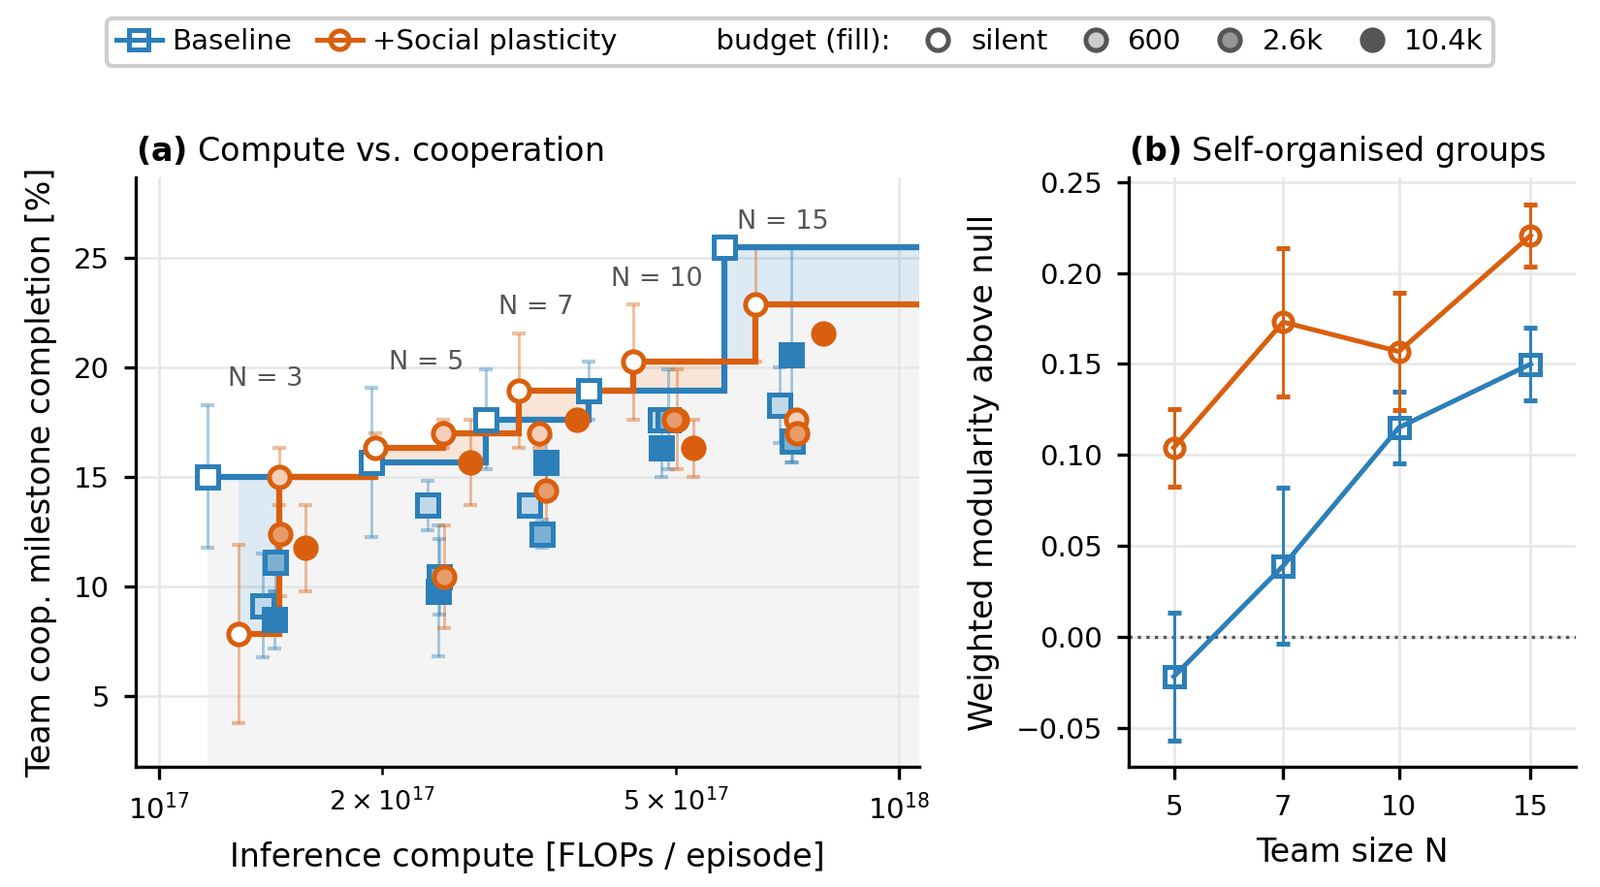
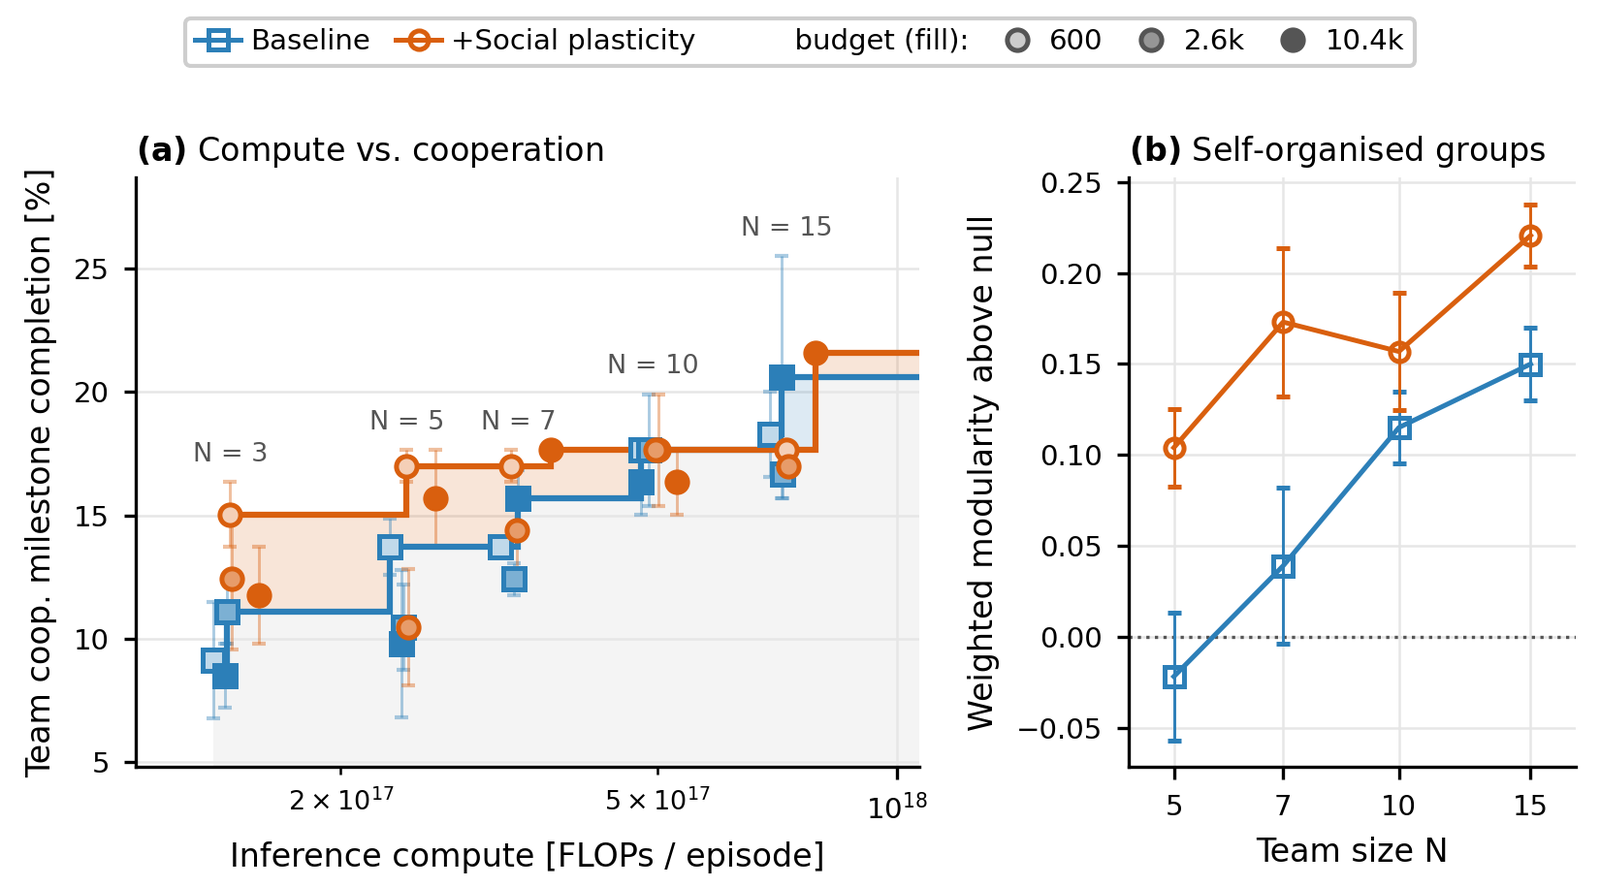
Follow the paper's scaling section; default to the talking-team figures

diff --git a/index.html b/index.html
@@ -16,7 +16,7 @@
 <link rel="preconnect" href="https://cdnjs.cloudflare.com">
 <link rel="stylesheet" href="https://fonts.googleapis.com/css2?family=Roboto:wght@100;300;400;500&display=swap">
 <link rel="stylesheet" href="https://cdnjs.cloudflare.com/ajax/libs/KaTeX/0.16.11/katex.min.css" integrity="sha384-nB0miv6/jRmo5UMMR1wu3Gz6NLsoTkbqJghGIsx//Rlm+ZU03BU6SQNC66uf4l5+" crossorigin="anonymous" referrerpolicy="no-referrer">
-<link rel="stylesheet" href="assets/css/style.css?v=20261011b">
+<link rel="stylesheet" href="assets/css/style.css?v=20261012a">
 </head>
 <body>
 
@@ -353,8 +353,8 @@
 <section class="main alt" id="scaling">
   <header>
     <div class="container">
-      <h2>Test-time scaling: more agents, bounded talk</h2>
-      <p class="lede">New results. The same zero-shot Gemma-E4B agents, scaled at inference time from 3 to 15 per team, with each agent's messages capped at 600, 2,600 or 10,400 tokens per episode, or switched off (silent teams). Every agent gets the same prompt apart from its name, and nobody assigns roles or groups. A cell is three seeds of three episodes of up to 1,000 steps, with fewer seeds at N&nbsp;=&nbsp;15.</p>
+      <h2>Test-time scaling: self-organised structure as teams grow</h2>
+      <p class="lede">All agents receive the same prompt apart from their name, and every message is addressed to exactly one teammate. Yet as the team grows, structure appears in who talks to whom that nobody assigns. We scale zero-shot Gemma-E4B teams from 3 to 15 agents, with and without social plasticity, and give each agent 600, 2,600 or 10,400 tokens to spend on messages per episode.</p>
     </div>
   </header>
   <div class="content">
@@ -362,82 +362,94 @@
 
       <div class="findings">
         <div class="finding">
-          <span class="rq">Talking teams</span>
-          <span class="num">10 of 11 cells</span>
-          <p>When agents can talk, social plasticity completes more cooperative milestones than the baseline in 10 of the 11 budget × team-size cells that differ (4 tied; sign test p&nbsp;=&nbsp;0.012). Silent teams show no consistent difference (3 of 5).</p>
+          <span class="rq">Cooperation scales with team size</span>
+          <span class="num">9.6% → 18.5%</span>
+          <p>Team cooperative progress rises with team size under every communication budget. Averaged over the budgets, baseline MindForge agents go from 9.6% with 3 agents to 18.5% with 15, about 93% more.</p>
         </div>
         <div class="finding">
-          <span class="rq">Same cooperation, fewer agents</span>
-          <span class="num">N = 5 ≈ N = 7</span>
-          <p>Averaged over budgets, five agents with social plasticity reach 14.9%, which the baseline needs seven agents for. The gap narrows as teams grow: 18.0% against 17.6% at N&nbsp;=&nbsp;10, 19.8% against 20.3% at N&nbsp;=&nbsp;15.</p>
+          <span class="rq">Fewer agents, less compute</span>
+          <span class="num">10 of 10</span>
+          <p>Social plasticity reaches more cooperative milestones than the baseline in every team size and budget up to ten agents that is not tied (sign test p&nbsp;=&nbsp;0.002), with gains of up to 5.9 points. Five agents with it exceed seven baseline agents (14.4% vs 13.9%).</p>
         </div>
         <div class="finding">
-          <span class="rq">Self-organised groups</span>
-          <span class="num">0.22 vs 0.15</span>
-          <p>Message networks split into communities beyond what a degree-preserving random graph gives. The structure grows with team size and is stronger with social plasticity at every size (modularity above the null at N&nbsp;=&nbsp;15).</p>
+          <span class="rq">Scarce communication</span>
+          <span class="num">600 tokens</span>
+          <p>The gains are largest at the tightest budget: 9.2% → 15.0% with three agents, 13.7% → 17.0% with five and with seven. With 600 tokens, social-plasticity teams of up to ten agents beat baseline teams given a 17× larger budget (17.0% vs 9.8% with five agents).</p>
         </div>
         <div class="finding">
-          <span class="rq">A hub, not a leader</span>
+          <span class="rq">A hub and tight circles</span>
           <span class="num">9–11 partners</span>
-          <p>At N&nbsp;=&nbsp;15, agent 0 ends an episode with 9–11 distinct conversation partners, while the other agents average 2.5–2.9. It answers about one message in four within ten steps (others: one in two) and asks for direction itself.</p>
+          <p>At N&nbsp;=&nbsp;15 the focal teammate ends the episode with 9–11 distinct partners, the other agents with 2.5–2.9. Social-plasticity teams answer 6–14 points more of the messages they receive and split into tighter groups at every team size.</p>
         </div>
       </div>
-      <p class="note" style="margin: -1.2em auto 2.4em; text-align: center;">Team coop. milestone completion: share of the 17 cooperative milestones (Chambers 2–5) reached by at least one agent of the team, averaged over a run's episodes; mean ± SE over seeds. It counts the team, unlike the per-agent Coop. % in the RQ1 table, so the two are not comparable.</p>
+      <p class="note" style="margin: -1.2em auto 2.4em; text-align: center;">Team cooperative milestone completion: share of the 17 cooperative milestones (Chambers 2–5) reached by at least one agent of the team by the end of the episode, averaged over a run's episodes; mean ± SE over seeds. It counts the team, unlike the per-agent Coop. % in the RQ1 table, so the two are not comparable.</p>
 
-      <h3 style="font-weight: 300; font-size: 1.3em;">Compute against cooperation</h3>
-      <figure class="figure-block" style="margin-top: 1em;">
-        <div class="controls" style="margin-bottom: 1em;">
-          <div class="chips" role="group" aria-label="Budgets shown">
-            <span class="lbl">Budgets</span>
-            <button class="chip active" data-swap="#scaling-pareto" data-src="assets/figures/scaling_pareto.png">All, including silent</button>
-            <button class="chip" data-swap="#scaling-pareto" data-src="assets/figures/scaling_pareto_talking.png">Talking teams only</button>
-          </div>
+      <div class="controls">
+        <div class="chips" role="group" aria-label="Teams shown in the figures">
+          <span class="lbl">Teams</span>
+          <button class="chip active" data-swap="#scaling-pareto,#scaling-progress" data-src="assets/figures/scaling_pareto.png,assets/figures/scaling_progress.png">Talking (as in the paper)</button>
+          <button class="chip" data-swap="#scaling-pareto,#scaling-progress" data-src="assets/figures/scaling_pareto_silent.png,assets/figures/scaling_progress_silent.png">With silent teams</button>
         </div>
-        <span class="image fit framed"><img id="scaling-pareto" src="assets/figures/scaling_pareto.png" alt="(a) Inference compute per episode against team cooperative milestone completion for baseline and social-plasticity teams of 3 to 15 agents at four message budgets, with each arm's Pareto front. (b) Weighted modularity of the message network above a degree-preserving null against team size." loading="lazy"></span>
-        <figcaption><strong>(a) Compute vs. cooperation.</strong> One point per arm, team size and budget (fill: budget). Compute is 2 × 4.5·10<sup>9</sup> × (prompt + generated tokens), summed over every model call of every agent in an episode. Dashed steps are each arm's Pareto front; the shaded region is dominated by the joint front. Among talking teams, the social-plasticity front is higher over 70% of the compute range and the baseline's over 8%. With silent teams included the split is 52% against 21%, and silent teams make up seven of the eight cells on the joint front. <strong>(b) Self-organised groups.</strong> Weighted modularity of the message network above a degree-preserving null. Compute is measured from token logs for 17 of the 40 cells. The rest are estimated from the tokens per agent-episode of the same arm and budget.</figcaption>
-      </figure>
-
-      <div class="row" style="margin-top: 2.4em;">
-        <figure>
-          <span class="image fit framed"><img src="assets/figures/scaling_progress.png" alt="Team cooperative milestone completion over the episode for baseline and social plasticity, in a grid of four budgets by five team sizes." loading="lazy"></span>
-          <figcaption><strong>Completion over the episode</strong>, by budget (rows) and team size (columns); dotted lines mark the chamber boundaries. The clearest gap is at the tightest budget, 600 tokens, for three to seven agents, and it opens in Chambers 3 and 4. Silent teams of three are the one large reversal (15.0% against 7.8%).</figcaption>
-        </figure>
-        <figure>
-          <span class="image fit framed"><img src="assets/figures/scaling_endpoint.png" alt="Episode-end team cooperative milestone completion against team size, averaged over budgets and per budget, with log-linear trends." loading="lazy"></span>
-          <figcaption><strong>Episode-end completion against team size</strong>: (a) the mean over budgets with log-linear trends; (b) per budget. Completion rises with team size for both arms. N&nbsp;=&nbsp;20 (shaded) is partial, with at most two seeds per cell and some budgets missing.</figcaption>
-        </figure>
       </div>
-
-      <h3 style="font-weight: 300; font-size: 1.3em; margin-top: 2.2em;">Who works with whom at fifteen agents</h3>
-      <p class="lede" style="margin-left: 0;">Every message is addressed to exactly one teammate, so the logs record who talks to whom. Without assigned roles, a hub forms around agent 0 and the rest of the team splits into small side groups. The agents differ only in their names.</p>
-      <figure class="figure-block" style="margin-top: 1.2em;">
-        <span class="image fit framed"><img src="assets/figures/team_formation_n15.png" alt="Whole-episode interaction networks of a fifteen-agent baseline team and a social-plasticity team, both centred on agent 0, and the learned bonds of the social-plasticity team." loading="lazy"></span>
-        <figcaption><strong>Whole-episode interaction networks at N&nbsp;=&nbsp;15</strong> (2,600-token budget), one episode per arm: the one closest to its cell's median Chamber 2 structure. Node size grows with distinct partners; agent 0 and its links are black. (c) The learned bonds of the same social-plasticity episode. Bonds partly follow the messages (Spearman ρ between Chamber 2 messages and bonds: +0.53 at N&nbsp;=&nbsp;3, +0.27 at N&nbsp;=&nbsp;15). They stay weak (mean 0.10–0.13 against a starting value of 0.1), and agent 0 holds ordinary ones.</figcaption>
+      <figure class="figure-block" style="margin-top: 0;">
+        <span class="image fit framed"><img id="scaling-pareto" src="assets/figures/scaling_pareto.png" alt="(a) Inference compute per episode against team cooperative milestone completion for baseline and social-plasticity teams of 3 to 15 agents at three message budgets, with each arm's Pareto front. (b) Weighted modularity of the Chamber 2 message graph above a degree-preserving null against team size." loading="lazy"></span>
+        <figcaption><strong>(a) Inference compute against cooperation.</strong> Each point is one arm, team size and communication budget (marker fill), with team cooperative milestone completion at the end of the episode. Step lines are each arm's Pareto front; the orange region is where the social-plasticity front exceeds the baseline front. Compute is 2 × 4.5·10<sup>9</sup> × (prompt + generated tokens) per episode. It is measured from token logs for 12 of the 30 cells (17 of 40 with silent teams) and estimated for the rest from the tokens per agent-episode of the same arm and budget. <strong>(b) Self-organised groups.</strong> Weighted Louvain modularity of the Chamber 2 message graph minus that of degree-preserving rewired versions of the same graph; 0 means no more grouping than each agent's number of partners implies. The second view adds silent teams (messaging switched off), which the paper does not report.</figcaption>
       </figure>
 
-      <div class="row" style="margin-top: 2.4em;">
+      <figure class="figure-block" style="max-width: 920px; margin-left: auto; margin-right: auto;">
+        <span class="image fit framed"><img id="scaling-progress" src="assets/figures/scaling_progress.png" alt="Team cooperative milestone completion over the episode for baseline and social plasticity, in a grid of budgets by five team sizes." loading="lazy"></span>
+        <figcaption><strong>Cooperative progress over the episode as teams grow.</strong> Team cooperative milestone completion over environment steps for each team size, with one row per budget: (a) 10,400, (b) 2,600 and (c) 600 tokens per agent per episode; the second view adds silent teams as row (d). Shading is ±1 SE over seeds, and dotted lines mark the chamber transitions.</figcaption>
+      </figure>
+
+      <h3 style="font-weight: 300; font-size: 1.3em; margin-top: 2.2em;">New forms of coordination as the team grows</h3>
+      <p class="lede" style="margin-left: 0;">Messages are addressed, so the logs are a complete record of the team's conversation. The network analyses use the Chamber 2 message graph.</p>
+      <div class="row" style="margin-top: 1.2em;">
         <figure>
           <span class="image fit framed"><img src="assets/figures/collab_chambers.png" alt="Message networks in Chambers 2, 3 and 4 for teams of 3, 5, 7, 10, 15 and 20 agents with social plasticity, with message communities shaded and milestones completed together in green." loading="lazy"></span>
-          <figcaption><strong>The network chamber by chamber as the team grows</strong> (social plasticity, 2,600 tokens). Grey areas are message communities. Green links join two agents credited for the same milestone event, almost always a Chamber 3 switch press and the door it opens.</figcaption>
+          <figcaption><strong>Who talks to whom, by team size and chamber</strong> (social plasticity, 2,600-token budget; one typical episode per team size). Edge width follows the messages exchanged; solid edges carry messages both ways, dashed edges one way. Grey bands are Louvain communities of the message graph, and green edges with a diamond join agents credited for the same milestone. Agent 0 is filled, and agents silent in that chamber sit underneath. In Chamber 3 the ring is set by the task: agent <span class="m">i</span>'s switch opens agent <span class="m">i</span>+1's door.</figcaption>
         </figure>
-        <div>
-          <figure>
-            <span class="image fit framed"><img src="assets/figures/team_formation_n15_time.png" alt="Distinct partners over the episode for agent 0 and the mean of the other agents, baseline and social plasticity, fifteen agents." loading="lazy"></span>
-            <figcaption><strong>Distinct partners over the two episodes above</strong>: agent 0 (solid) against the mean of the other agents (dashed). × marks a Chamber 5 team wipe; the shaded band is Chamber 2.</figcaption>
-          </figure>
-          <div class="cols" style="grid-template-columns: 1fr; gap: 18px;">
-            <div>
-              <h3>Circles stay small</h3>
-              <p>At every team size an agent keeps about 1.3 conversation partners in Chamber 2. Larger teams therefore split into more groups (one at N&nbsp;=&nbsp;3, three to four at N&nbsp;=&nbsp;15) rather than larger ones.</p>
-            </div>
-            <div>
-              <h3>Talk partners are not task partners</h3>
-              <p>Pairs that complete a milestone together are switch-ring neighbours, which the task fixes (93–100%). The share of them that had messaged each other in Chamber 2 falls from 67–69% at N&nbsp;=&nbsp;3 to 15–29% at N&nbsp;=&nbsp;15.</p>
-            </div>
-            <div>
-              <h3>Talk does not reach the task</h3>
-              <p>Silent teams break a Chamber 2 anvil in 13 of 81 episodes, messaging teams in 5 of 234. Agents press their Chamber 3 switch about as often without messages as with them (21.5% against 23.8%).</p>
-            </div>
+        <div class="cols" style="grid-template-columns: 1fr; gap: 18px; margin-top: 0; align-content: start;">
+          <div>
+            <h3>3 agents: direct requests</h3>
+            <p>All three agents talk to each other, and cooperation runs through requests to the teammate who can help. In the switch ring, an agent asked the teammate whose switch opens its door to press it, and the teammate pressed six steps later.</p>
+          </div>
+          <div>
+            <h3>5 agents: a focal teammate emerges</h3>
+            <p>About three in four agents open the episode by messaging agent 0, against one in four by chance. Complete request–act–acknowledge loops appear: an agent asked its neighbour to press, the neighbour pressed and reported it, and the freed agent thanked it and moved on.</p>
+          </div>
+          <div>
+            <h3>7 agents: side groups and ring-wide reasoning</h3>
+            <p>In 61% of episodes, two or three agents form a group beside the conversation around agent 0. Agents begin to reason about the ring beyond a single partner: one told its predecessor that it was pressing its switch to free its successor.</p>
+          </div>
+          <div>
+            <h3>10 agents: requests route through a hub</h3>
+            <p>Side groups form in 93% of episodes, and agents route requests through the focal teammate. An agent locked in its cell asked agent 0 to have a third agent press the switch that frees it.</p>
+          </div>
+          <div>
+            <h3>15 agents: many circles, one hub</h3>
+            <p>The team splits into about 3.5 groups around a single hub, and agents coordinate several teammates in one message, announcing a switch press meant to free two of them at once.</p>
+          </div>
+        </div>
+      </div>
+
+      <figure class="figure-block">
+        <span class="image fit framed"><img src="assets/figures/team_formation_n15.png" alt="Whole-episode interaction networks of a fifteen-agent baseline team and a social-plasticity team, both centred on agent 0, and the learned bonds of the social-plasticity team." loading="lazy"></span>
+        <figcaption><strong>A focal hub in a fifteen-agent team</strong> (2,600-token budget; one typical episode per arm). (a, b) Every interaction of the episode for the baseline and social plasticity: an edge joins two agents who exchanged at least one message, and agent 0's edges are dark. (c) The learned bonds <span class="m">W</span> of the social-plasticity team in (b), with width proportional to bond strength. Layouts are force-directed, so distance on the page is not distance in the world.</figcaption>
+      </figure>
+
+      <div class="row" style="margin-top: 2.4em; align-items: start;">
+        <figure>
+          <span class="image fit framed"><img src="assets/figures/team_formation_n15_time.png" alt="Distinct partners over the episode for agent 0 and the mean of the other agents, baseline and social plasticity, fifteen agents." loading="lazy"></span>
+          <figcaption><strong>The hub accumulates partners early.</strong> Distinct interaction partners over the two episodes above: agent 0 (solid) against the mean of the other agents (dashed). Chamber 2 is shaded; × marks the end of the episode, when the team is wiped out.</figcaption>
+        </figure>
+        <div class="cols" style="grid-template-columns: 1fr; gap: 18px; margin-top: 0;">
+          <div>
+            <h3>Teams self-organise around a hub and tight circles</h3>
+            <p>The focal teammate becomes the team's hub, a wheel that classic studies of human groups found fastest for simple coordination tasks. Around it, each agent keeps one or two conversation partners, so larger teams form more groups rather than bigger ones, and agents talk inside these groups more than chance predicts. In the baseline, modularity exceeds the degree-preserving null by 0.12–0.15 from N&nbsp;=&nbsp;10, and the excess grows with team size (ρ&nbsp;=&nbsp;+0.59, p&nbsp;=&nbsp;0.0002).</p>
+          </div>
+          <div>
+            <h3>Learned bonds tighten the conversation</h3>
+            <p>Social-plasticity agents answer 6–14 points more of the messages they receive, and they split into tighter talking groups than baseline teams at every team size: +0.10 vs −0.02 above the null at N&nbsp;=&nbsp;5, +0.22 vs +0.15 at N&nbsp;=&nbsp;15, higher in 20 of 27 matched runs (Wilcoxon p&nbsp;&lt;&nbsp;0.001). With five agents they already reach the grouping that baseline teams show only with ten. The bonds follow the conversation (Spearman ρ&nbsp;=&nbsp;+0.53 between Chamber 2 messages and bonds at N&nbsp;=&nbsp;3): remembered relationships let each message count for more.</p>
           </div>
         </div>
       </div>
@@ -783,6 +795,6 @@
 </footer>
 
 <script defer src="https://cdnjs.cloudflare.com/ajax/libs/KaTeX/0.16.11/katex.min.js" integrity="sha384-7zkQWkzuo3B5mTepMUcHkMB5jZaolc2xDwL6VFqjFALcbeS9Ggm/Yr2r3Dy4lfFg" crossorigin="anonymous" referrerpolicy="no-referrer"></script>
-<script defer src="assets/js/main.js?v=20261011b"></script>
+<script defer src="assets/js/main.js?v=20261012a"></script>
 </body>
 </html>

diff --git a/assets/js/main.js b/assets/js/main.js
@@ -205,12 +205,16 @@
     });
   }
 
-  // ── figure variants: a chip swaps the image it names ──────────────
+  // ── figure variants: a chip swaps the images it names ─────────────
+  // data-swap lists image selectors and data-src their new sources, both
+  // comma-separated and in the same order.
   document.querySelectorAll(".chip[data-swap]").forEach(chip => {
     chip.addEventListener("click", () => {
-      const img = document.querySelector(chip.dataset.swap);
-      if (!img) return;
-      img.src = chip.dataset.src;
+      const srcs = chip.dataset.src.split(",");
+      chip.dataset.swap.split(",").forEach((sel, i) => {
+        const img = document.querySelector(sel.trim());
+        if (img && srcs[i]) img.src = srcs[i].trim();
+      });
       chip.parentElement.querySelectorAll(".chip").forEach(c => c.classList.toggle("active", c === chip));
     });
   });
